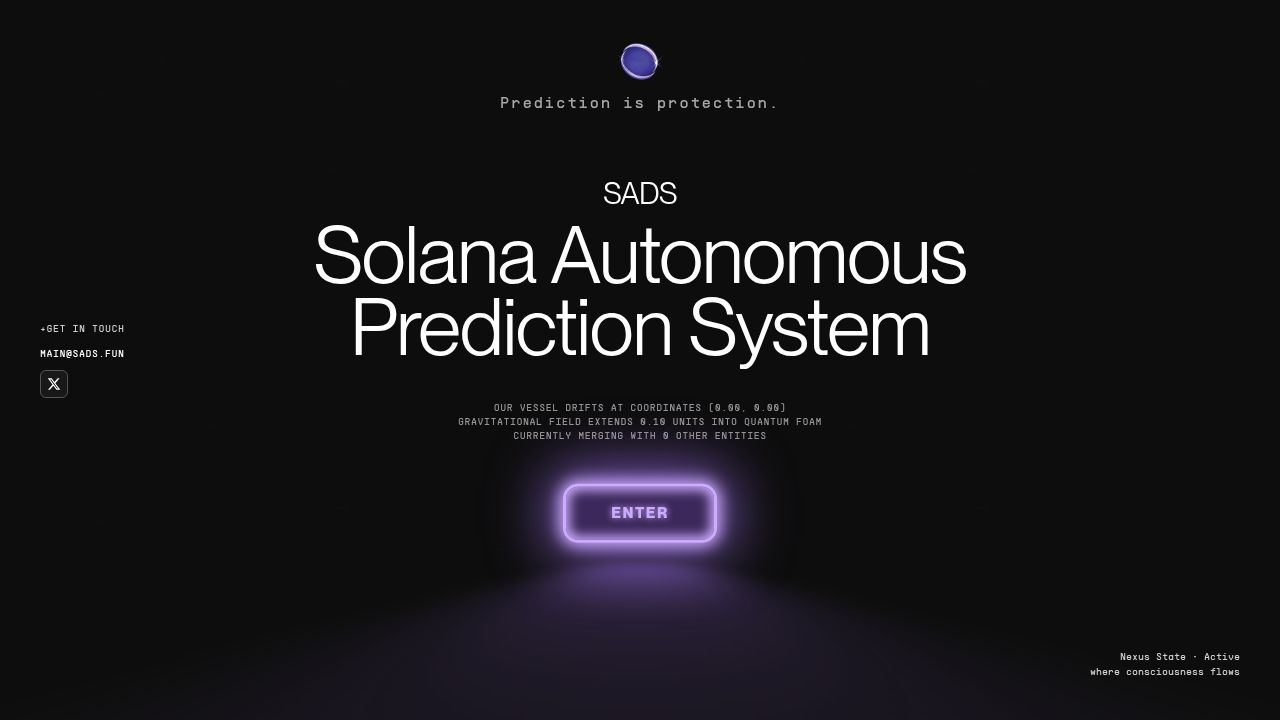
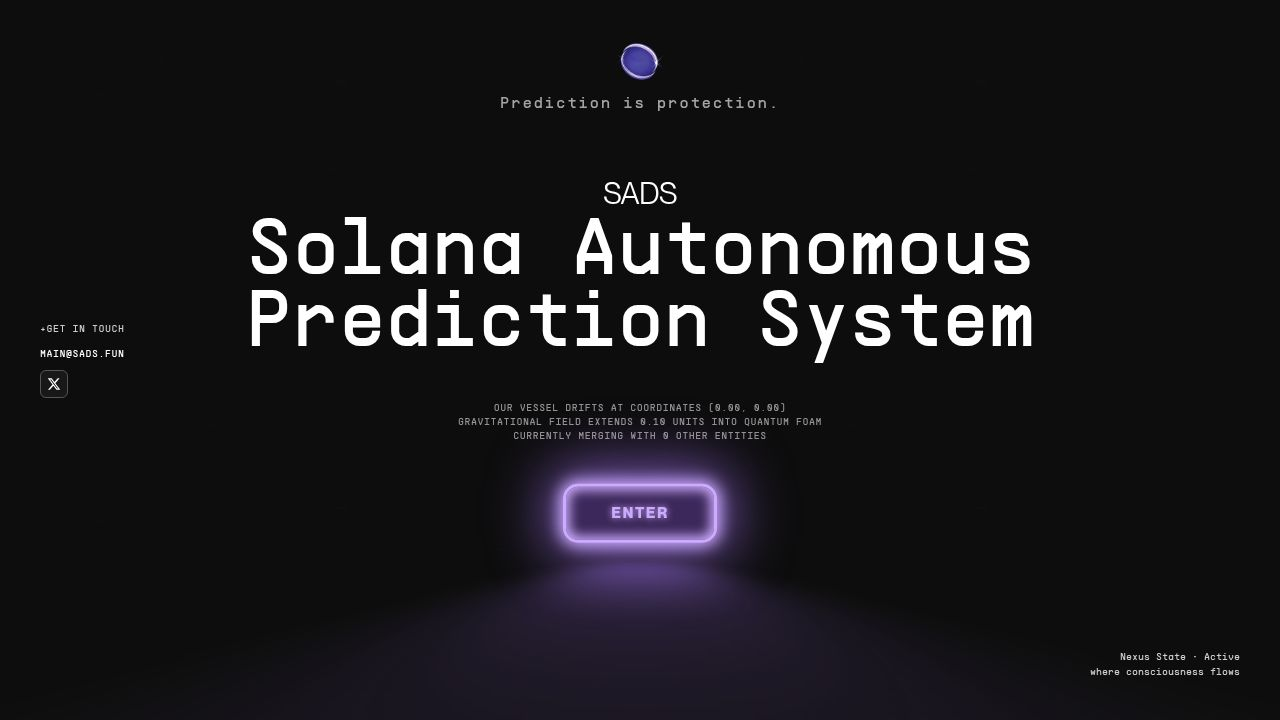
Update text font to match other elements on the page
Change the hero h1 font family from --font-primary to --font-secondary in client/src/index.css to match the font used for "Prediction is protection".

Replit-Commit-Author: Agent
Replit-Commit-Session-Id: 5517163d-d09e-4d7b-9ccd-8a6b40dda7e9
Replit-Commit-Checkpoint-Type: full_checkpoint
Replit-Commit-Event-Id: c24b505b-db05-49e9-b2e8-94fa96fa171e
Replit-Commit-Screenshot-Url: https://storage.googleapis.com/screenshot-production-us-central1/2e951e4b-f19d-43a5-af93-0d57e916c391/5517163d-d09e-4d7b-9ccd-8a6b40dda7e9/84vWetl
Replit-Helium-Checkpoint-Created: true

Changed region(s): [[0.1875, 0.3056, 0.8125, 0.5194]]

diff --git a/client/src/index.css b/client/src/index.css
@@ -228,7 +228,7 @@ body::after {
 }
 
 .hero h1 {
-  font-family: var(--font-primary);
+  font-family: var(--font-secondary);
   font-weight: 400;
   font-size: var(--font-size-large);
   line-height: 0.9;
